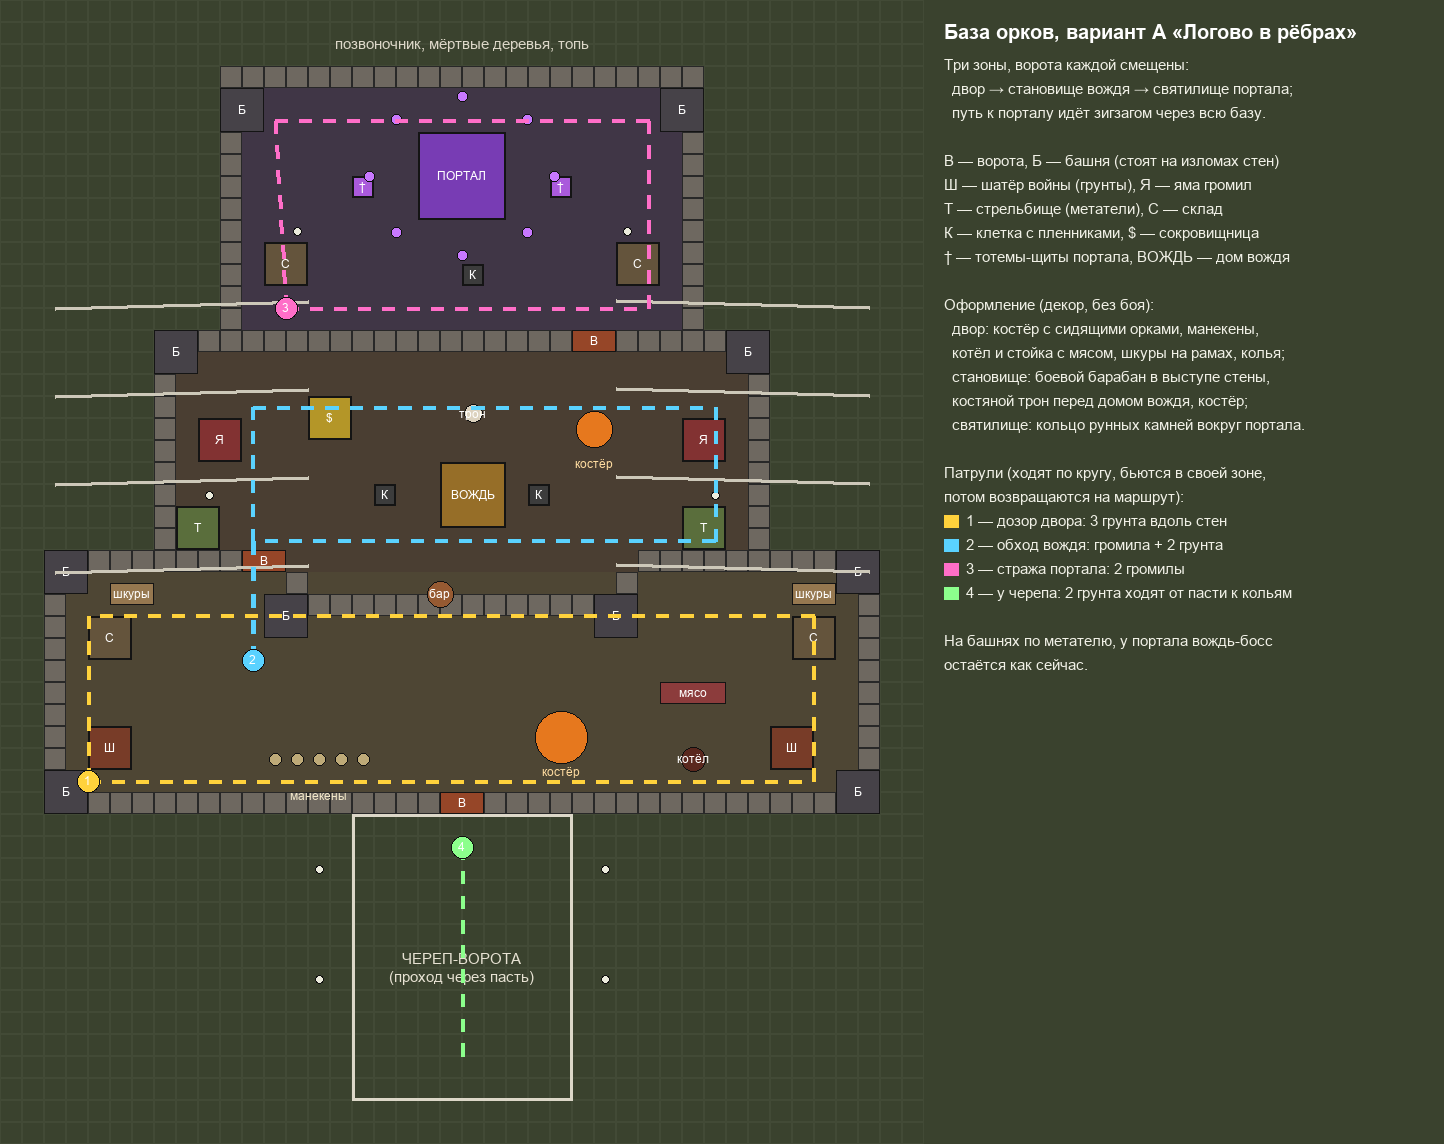
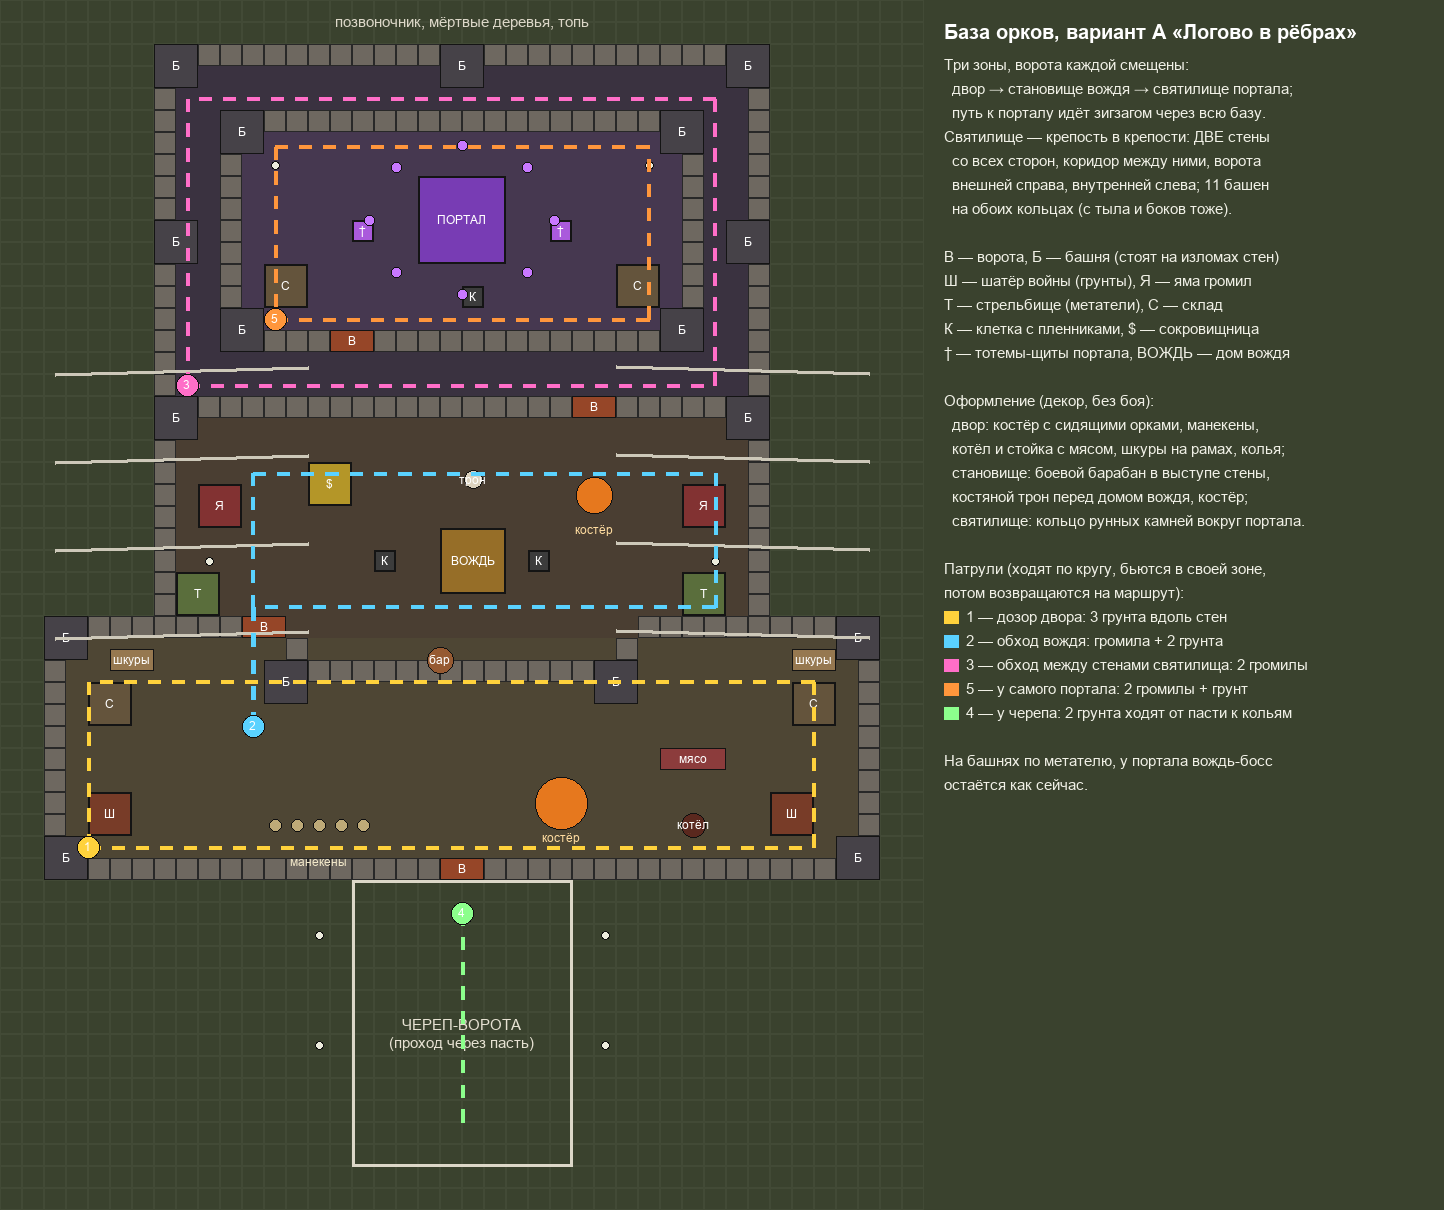
Orc base scheme A: the portal's sanctum a fortress in the fortress (the user): two walls all round with a corridor, offset gates, 11 towers on both rings, a patrol between the walls and one at the portal

diff --git a/Design/orc_base_living_a.py b/Design/orc_base_living_a.py
@@ -7,7 +7,7 @@ the main base's cells (x -19..18, z -36..12; the front, the skull gate, at the b
 from PIL import Image, ImageDraw, ImageFont
 
 C = 22                       # pixels a cell
-X0, X1, Z0, Z1 = -21, 21, -38, 14
+X0, X1, Z0, Z1 = -21, 21, -38, 17
 LEGEND_W = 520
 W, H = (X1 - X0) * C + LEGEND_W, (Z1 - Z0) * C
 img = Image.new("RGB", (W, H), (58, 66, 46))
@@ -44,7 +44,8 @@ for z in range(Z0, Z1):
         d.rectangle([a, (a[0] + C - 1, a[1] + C - 1)], outline=(66, 74, 54))
 rect(-19, -23, 38, 11, (78, 70, 52), outline=None)            # the yard
 rect(-14, -12, 28, 10, (74, 62, 50), outline=None)            # the chief's quarter
-rect(-11, -2, 22, 12, (64, 54, 70), outline=None)             # the portal's sanctum
+rect(-14, -2, 28, 17, (58, 50, 64), outline=None)             # the portal's sanctum: between its two walls
+rect(-11, 1, 22, 11, (70, 56, 80), outline=None)              # ... and inside the inner one
 
 WALL, TOWER, GATE = (110, 104, 96), (70, 66, 72), (150, 70, 40)
 
@@ -74,16 +75,23 @@ vwall(7, -13, -13)
 hwall(8, 13, -12)
 vwall(-14, -11, -3)
 vwall(13, -11, -3)
-# the sanctum: its gate RIGHT of the chief's, so the way in zig-zags
+# the sanctum (the user, 2026-11-06: the player may come at it from any side, not only through the
+# gates): TWO walls all round it, a corridor between; the outer gate RIGHT, the inner one LEFT
 hwall(-14, 13, -2, gaps=(5, 6))
-vwall(-11, -1, 9)
-vwall(10, -1, 9)
-hwall(-11, 10, 10)
-for gx, gz in ((-1, -23), (-10, -12), (5, -2)):
+vwall(-14, -1, 14)
+vwall(13, -1, 14)
+hwall(-14, 13, 14)
+hwall(-11, 10, 1, gaps=(-6, -5))
+vwall(-11, 2, 10)
+vwall(10, 2, 10)
+hwall(-11, 10, 11)
+for gx, gz in ((-1, -23), (-10, -12), (5, -2), (-6, 1)):
     rect(gx, gz, 2, 1, GATE, label="В")
 
 # towers at the bends, not on a grid
-for tx, tz in ((-19, -23), (17, -23), (-19, -13), (17, -13), (-9, -15), (6, -15), (-14, -3), (12, -3), (-11, 8), (9, 8)):
+for tx, tz in ((-19, -23), (17, -23), (-19, -13), (17, -13), (-9, -15), (6, -15), (-14, -3), (12, -3),
+               (-14, 13), (12, 13), (-14, 5), (12, 5), (-1, 13),         # the outer ring: corners, sides, back
+               (-11, 10), (9, 10), (-11, 1), (9, 1)):                   # the inner ring's corners
     rect(tx, tz, 2, 2, TOWER, label="Б")
 
 # buildings (kind, x, z, w, h, colour, mark)
@@ -95,10 +103,10 @@ B = [
     ("ChiefHouse", -1, -10, 3, 3, (150, 110, 40), "ВОЖДЬ"),
     ("Cage", -4, -9, 1, 1, (60, 60, 60), "К"), ("Cage", 3, -9, 1, 1, (60, 60, 60), "К"),
     ("Treasury", -7, -6, 2, 2, (180, 150, 40), "$"),
-    ("Portal", -2, 4, 4, 4, (120, 60, 180), "ПОРТАЛ"),
-    ("Totem", -5, 5, 1, 1, (170, 90, 220), "†"), ("Totem", 4, 5, 1, 1, (170, 90, 220), "†"),
-    ("Storehouse", -9, 1, 2, 2, (100, 84, 60), "С"), ("Storehouse", 7, 1, 2, 2, (100, 84, 60), "С"),
-    ("Cage", 0, 1, 1, 1, (60, 60, 60), "К"),
+    ("Portal", -2, 5, 4, 4, (120, 60, 180), "ПОРТАЛ"),
+    ("Totem", -5, 6, 1, 1, (170, 90, 220), "†"), ("Totem", 4, 6, 1, 1, (170, 90, 220), "†"),
+    ("Storehouse", -9, 3, 2, 2, (100, 84, 60), "С"), ("Storehouse", 7, 3, 2, 2, (100, 84, 60), "С"),
+    ("Cage", 0, 3, 1, 1, (60, 60, 60), "К"),
 ]
 for _, x, z, w, h, col, mark in B:
     rect(x, z, w, h, col, label=mark, width=2)
@@ -123,8 +131,8 @@ dot(0.5, -4.8, 9, (220, 210, 190), "трон")
 for k in range(8):                                             # rune stones round the portal
     import math
     a = k / 8 * 2 * math.pi
-    dot(0 + math.cos(a) * 4.2, 6 + math.sin(a) * 3.6, 5, (200, 120, 255))
-for x, z in ((-7, -26), (6, -26), (-7, -31), (6, -31), (-12, -9), (11, -9), (-8, 3), (7, 3)):
+    dot(0 + math.cos(a) * 4.2, 7 + math.sin(a) * 3.4, 5, (200, 120, 255))
+for x, z in ((-7, -26), (6, -26), (-7, -31), (6, -31), (-12, -9), (11, -9), (-9, 9), (8, 9)):
     dot(x + 0.5, z + 0.5, 4, (235, 235, 220))                 # skull poles
 for x, z in ((-16, -13.5), (15, -13.5)):
     rect(x, z, 2, 1, (150, 120, 80), label="шкуры")
@@ -136,13 +144,14 @@ for z in (-12, -8, -4, 0):
     for side in (-1, 1):
         x = side * 18.5
         d.line([px(x, z), px(side * 7, z + 0.3)], fill=(205, 200, 185), width=4)
-d.text(px(0, 12), "позвоночник, мёртвые деревья, топь", fill=(220, 215, 200), font=FONT, anchor="mm")
+d.text(px(0, 16), "позвоночник, мёртвые деревья, топь", fill=(220, 215, 200), font=FONT, anchor="mm")
 
 # patrols: dashed loops
 PATROLS = [
     ("1", (255, 210, 60), [(-17, -21.5), (16, -21.5), (16, -14), (-17, -14), (-17, -21.5)]),
     ("2", (90, 210, 255), [(-9.5, -16), (-9.5, -10.6), (-9.5, -4.5), (11.5, -4.5), (11.5, -10.6), (-9.5, -10.6), (-9.5, -16)]),
-    ("3", (255, 110, 200), [(-8, 0), (8.5, 0), (8.5, 8.5), (-8.5, 8.5), (-8, 0)]),
+    ("3", (255, 110, 200), [(-12.5, -0.5), (11.5, -0.5), (11.5, 12.5), (-12.5, 12.5), (-12.5, -0.5)]),
+    ("5", (255, 150, 60), [(-8.5, 2.5), (8.5, 2.5), (8.5, 10.3), (-8.5, 10.3), (-8.5, 2.5)]),
     ("4", (140, 255, 140), [(0, -24.5), (0, -34)]),
 ]
 
@@ -170,6 +179,10 @@ LINES = [
     ("Три зоны, ворота каждой смещены:", None),
     ("  двор → становище вождя → святилище портала;", None),
     ("  путь к порталу идёт зигзагом через всю базу.", None),
+    ("Святилище — крепость в крепости: ДВЕ стены", None),
+    ("  со всех сторон, коридор между ними, ворота", None),
+    ("  внешней справа, внутренней слева; 11 башен", None),
+    ("  на обоих кольцах (с тыла и боков тоже).", None),
     ("", None),
     ("В — ворота, Б — башня (стоят на изломах стен)", None),
     ("Ш — шатёр войны (грунты), Я — яма громил", None),
@@ -188,7 +201,8 @@ LINES = [
     ("потом возвращаются на маршрут):", None),
     ("1 — дозор двора: 3 грунта вдоль стен", (255, 210, 60)),
     ("2 — обход вождя: громила + 2 грунта", (90, 210, 255)),
-    ("3 — стража портала: 2 громилы", (255, 110, 200)),
+    ("3 — обход между стенами святилища: 2 громилы", (255, 110, 200)),
+    ("5 — у самого портала: 2 громилы + грунт", (255, 150, 60)),
     ("4 — у черепа: 2 грунта ходят от пасти к кольям", (140, 255, 140)),
     ("", None),
     ("На башнях по метателю, у портала вождь-босс", None),
